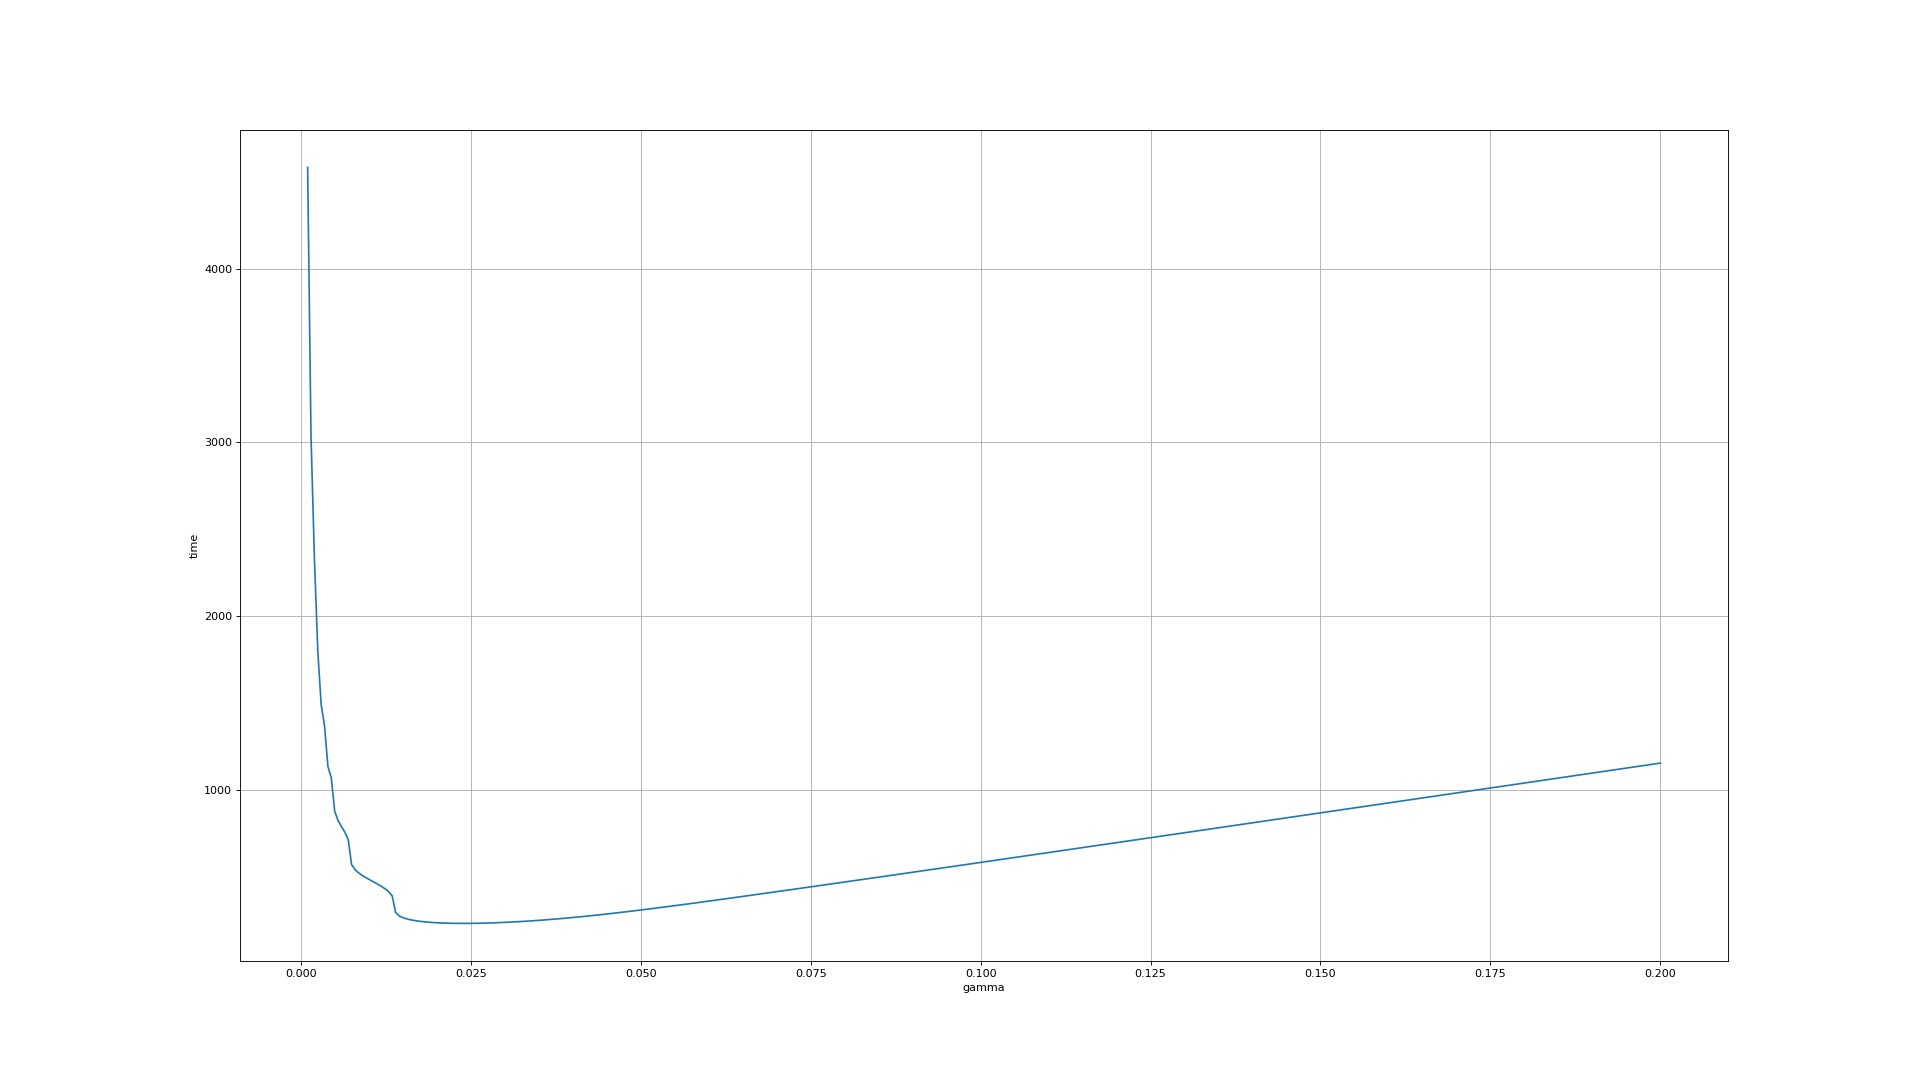
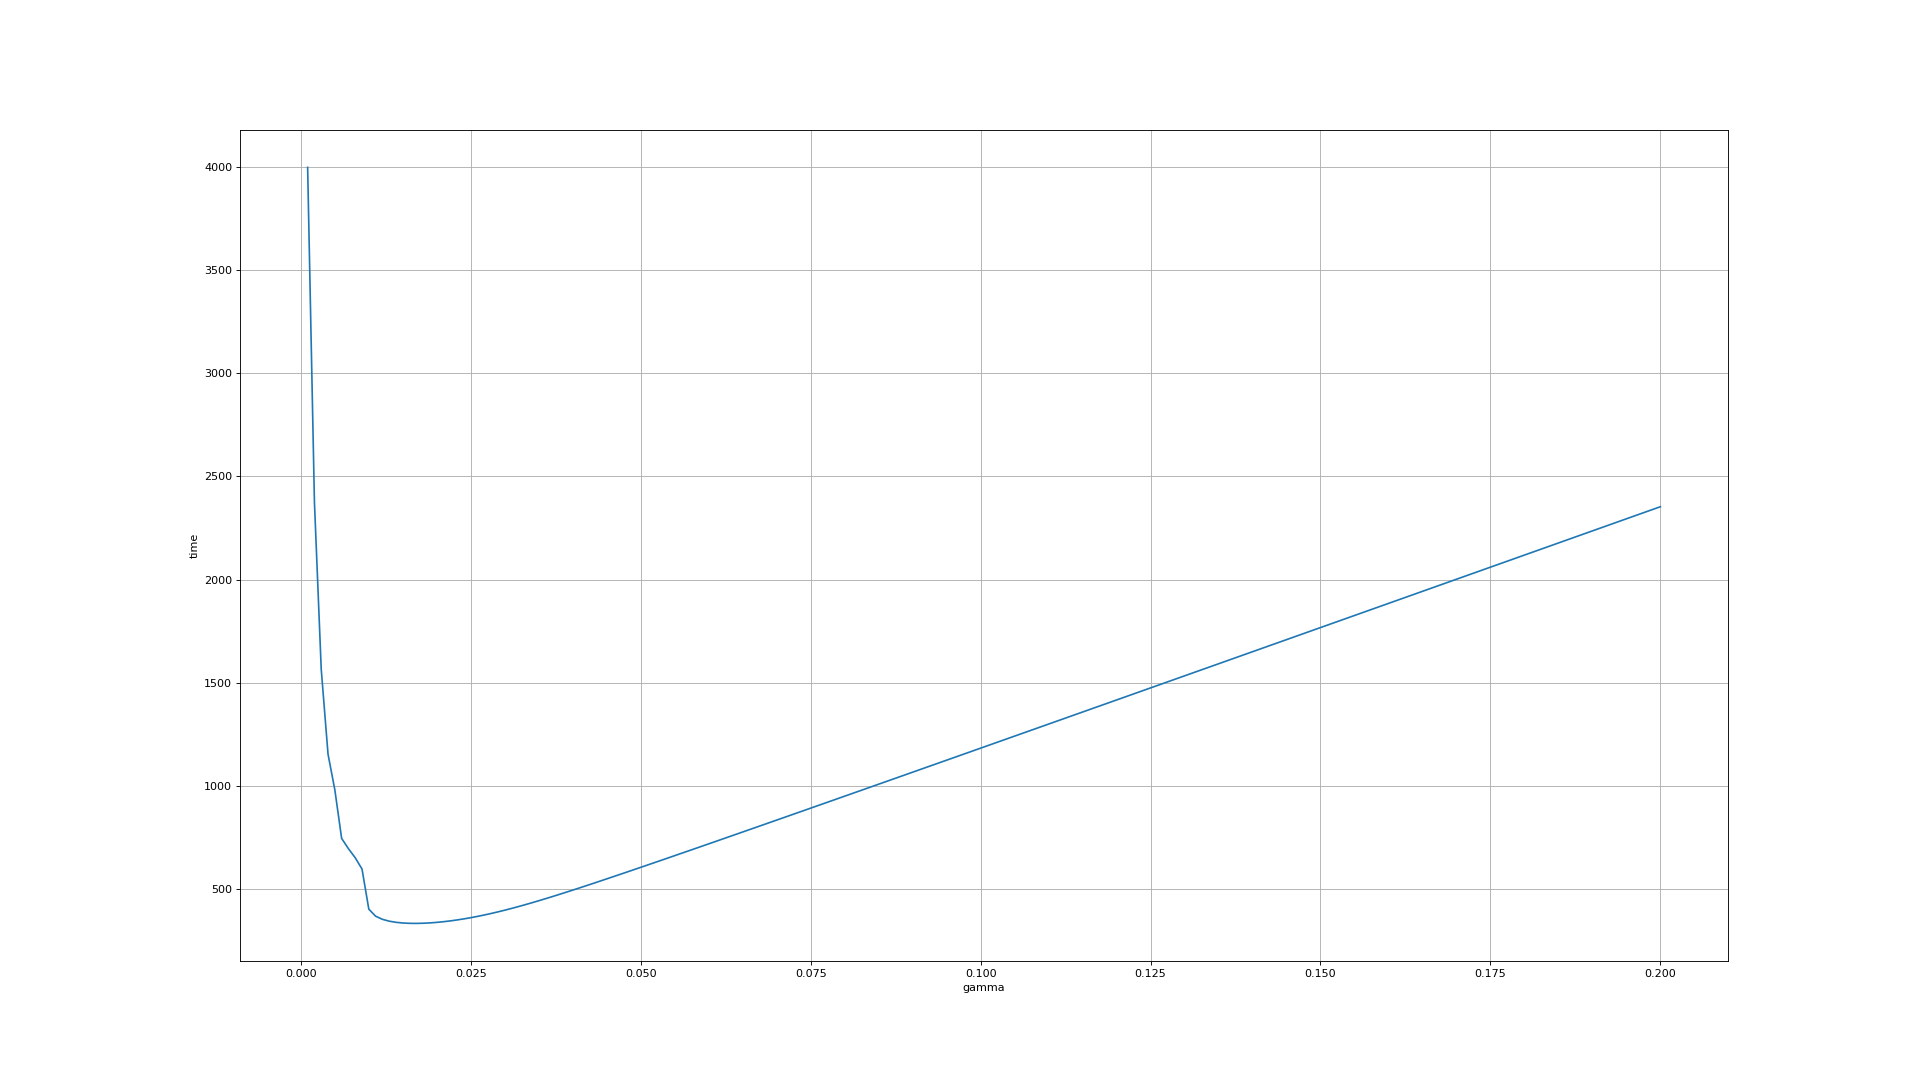
leak_first

diff --git a/examples/leak_first_example.cpp b/examples/leak_first_example.cpp
@@ -14,12 +14,16 @@ int main(int argc, char** argv) {
     QConfig::instance().set_width(30);
     double h = QConfig::instance().h();
     double w = QConfig::instance().w();
+    // QConfig::instance().set_w(10); // частота фотона
+
+    double waveguide_amplitude = 0.007; // |ню|
+    double waveguide_length = 2; // длина волновода (переводчик гугл)
 
     std::vector<size_t> grid_config = {0, 0};
 
     State grid(grid_config);
-    grid.set_n(1, 0);
-    grid.set_waveguide(0, 1, 0.01, 1);
+    grid.set_n(1, 0); // ставим фотон в 0 полость
+    grid.set_waveguide(0, 1, waveguide_amplitude, waveguide_length); // интенсивность волновода 
     grid.set_leak_for_cavity(1, 0.1);
 
     int ctxt;
@@ -33,9 +37,9 @@ int main(int argc, char** argv) {
     std::vector<COMPLEX> init_state(H.size(), 0);
     init_state[grid.get_index(H.get_basis())] = COMPLEX(1, 0);
 
-    auto time_vec = linspace(0, 5000, 5000);
+    auto time_vec = linspace(0, 4000, 4000);
 
-    std::vector<double> gamma_vec = linspace(0.001, 0.1, 200);
+    std::vector<double> gamma_vec = linspace(0.001, 0.1, 100); 
 
     for (size_t i = 0; i < 10; i++) {
         gamma_vec.emplace_back(0.1 + (i + 1) * 0.01);
